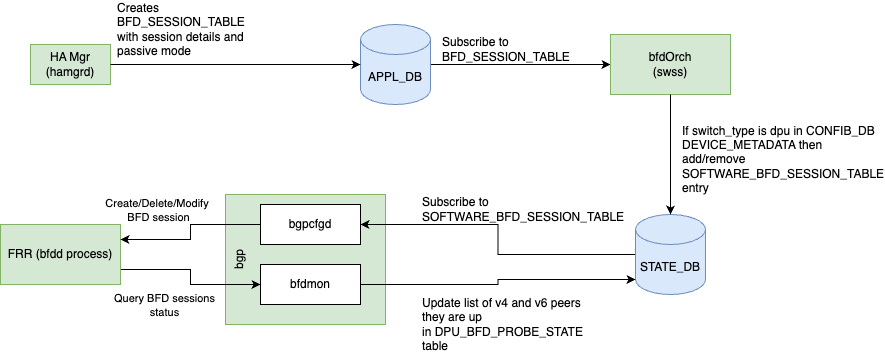
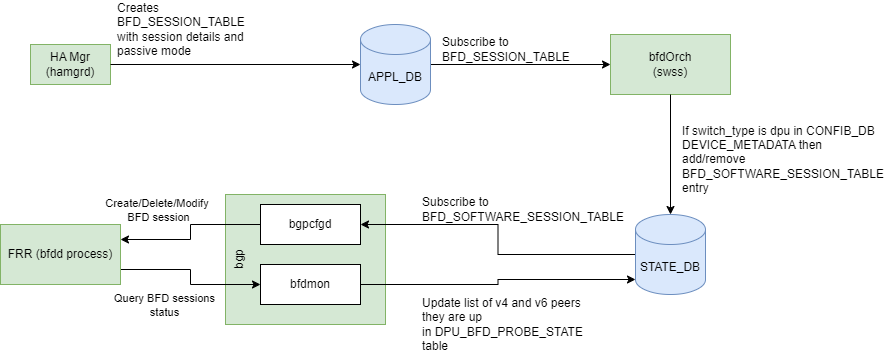
Change table name to BFD_SOFTWARE_SESSION_TABLE.

diff --git a/doc/smart-switch/BFD/SmartSwitchDpuLivenessUsingBfd.md b/doc/smart-switch/BFD/SmartSwitchDpuLivenessUsingBfd.md
@@ -122,10 +122,10 @@ Multihop BFD sessions are created between NPU and a remote DPU.
 
 HA manager(hamgrd) in NPU creates DPU routing rules for DPU-level HA using VNET_ROUTE_TUNNEL_TABLE which will trigger bfdOrch to create BFD Active session with local and peer information. NPU supports BFD hardware offload, so hardware starts generating BFD packets to the peer.
 
-HA manager also creates another BFD passive multihop session in DPU using BFD_SESSION_TABLE in APP_DB with local DPU PA and peer NPU PAs. BfdOrch checks switch_type in DEVICE_METADATA table of CONFIG_DB and if it's dpu, FRR is configured to trigger BFD sessions. BfdOrch creates SOFTWARE_BFD_SESSION_TABLE entry in STATE_DB with same field-value as passed from BFD_SESSION_TABLE. This allows flexibiliy in setting session type and other parameters from hamgrd.
+HA manager also creates another BFD passive multihop session in DPU using BFD_SESSION_TABLE in APP_DB with local DPU PA and peer NPU PAs. BfdOrch checks switch_type in DEVICE_METADATA table of CONFIG_DB and if it's dpu, FRR is configured to trigger BFD sessions. BfdOrch creates BFD_SOFTWARE_SESSION_TABLE entry in STATE_DB with same field-value as passed from BFD_SESSION_TABLE. This allows flexibiliy in setting session type and other parameters from hamgrd.
 There is no support for TSA with software BFD sessions.
 
-A new manager called BfdMgr is added in bgpcfgd and is instantiated only if switch_type is dpu in DEVICE_METADATA. It monitors for changes in SOFTWARE_BFD_SESSION_TABLE in STATE_DB, and adds or removes BFD sessions in FRR if entries are added or removed in STATE_DB. The keys used in STATE_DB (vrf, interface, peer address) are different from keys used in FRR (vrf, interface, multihop, peer, local). If multihop or local-addr fields are modified in STATE_DB entry, then existing BFD session in and a new one added. Changes to any other fields simply update the existing BFD session in FRR without removing/re-adding. The only supported session type in STATE_DB is async_active. If this session type is set then an active sessions is created in FRR. If "type" field is not set or set to any other value (eg: async_passive) then a passive BFD session is created in FRR.
+A new manager called BfdMgr is added in bgpcfgd and is instantiated only if switch_type is dpu in DEVICE_METADATA. It monitors for changes in BFD_SOFTWARE_SESSION_TABLE in STATE_DB, and adds or removes BFD sessions in FRR if entries are added or removed in STATE_DB. The keys used in STATE_DB (vrf, interface, peer address) are different from keys used in FRR (vrf, interface, multihop, peer, local). If multihop or local-addr fields are modified in STATE_DB entry, then existing BFD session in and a new one added. Changes to any other fields simply update the existing BFD session in FRR without removing/re-adding. The only supported session type in STATE_DB is async_active. If this session type is set then an active sessions is created in FRR. If "type" field is not set or set to any other value (eg: async_passive) then a passive BFD session is created in FRR.
 
 Trigger for HA manager to create BFD sessions will be detailed in HA HLD.
 
